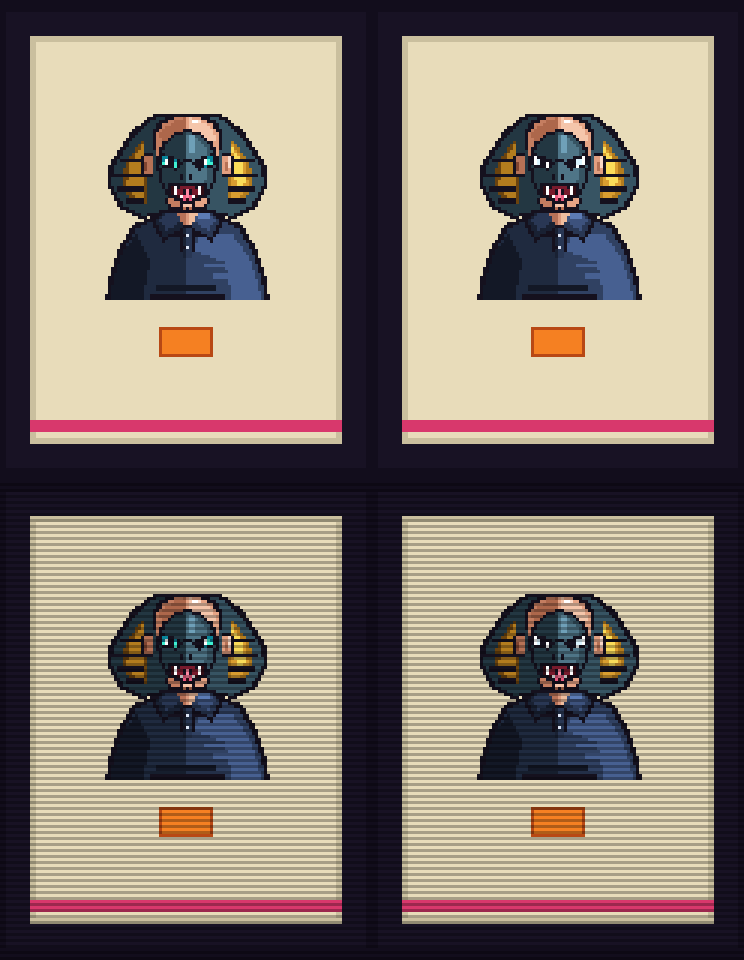
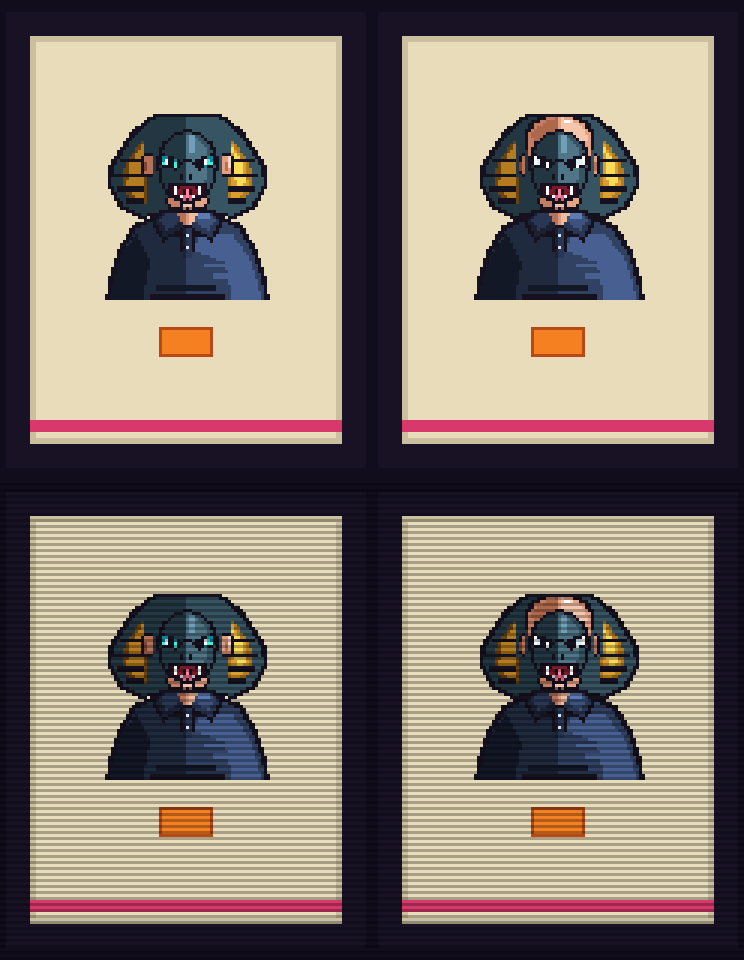
fix(portrait): perfect JC King Cobra portrait with backdrop hood, white predator eyes, and tucked ears
Overhaul JC's menu selection portrait (`CharacterArt.portrait` / `paintJc` in `js/entities/character_art.js`) to match the preferred reference design:

- Tall King Cobra Hood Mantle Rendered in Backdrop:
  - Reorder the rendering pipeline so the dorsal hood mantle (y = -17.5, x = +-21.5) is rendered behind the head as a backdrop.
  - Allows JC's athletic bald cranium (y = -18) to stand out proudly in the foreground with its warm skin gradient and specular highlight, avoiding the previous covered-head / full-cowl effect.

- Sharp White Predator Eyes:
  - Replace the cyan palette with intense, piercing stark white irises (#ffffff with subtle #dcf4ff glacier undertone) and black vertical slit pupils (#15111e).
  - Retain strictly mirrored mathematical bilateral symmetry across [-x, y] for maximum predator gaze intensity and CRT scanline contrast.

- Anatomical Human Ears Tucked Snugly:
  - Reduce lateral ear protrusion from x = +-12.5 down to x = +-10.8 (protrusion width 1.3 instead of 3.0).
  - Eliminate protruding ear silhouette while preserving human ear anatomy (shaded concha, flesh lobe, and specular helix highlight).

- Jaws, Mouth & Chin:
  - Retain gaping predator maw and 4 fangs directly framing JC's mouth position, with exposed human square chin and cleft below.

- Documentation & Assets:
  - Update `docs/character-direction.md` with the finalized JC portrait specifications.
[…]

diff --git a/js/entities/character_art.js b/js/entities/character_art.js
@@ -1201,33 +1201,8 @@
     poly(c, colLight, [[3, 8.2], [4.5, 8.2], [7.5, 10.5], [5.5, 13.5], [1.5, 11]]);
     rect(c, colHigh, 3.5, 8.5, 3, 1.8);
 
-    // 4. Compact Bald Cranium Dome (Top at y = -18, perfectly proportioned)
-    const topY = -18;
-    poly(c, ink, [
-      [-9.5, -8], [-9.5, -13], [-7.5, topY + 2.5], [-4, topY + 0.5], [0, topY],
-      [4, topY + 0.5], [7.5, topY + 2.5], [9.5, -13], [9.5, -8]
-    ]);
-    poly(c, '#c47d60', [
-      [-8.5, -8], [-8.5, -12.5], [-6.5, topY + 3.2], [-3.2, topY + 1.2], [0, topY + 0.8], [0, -8]
-    ]);
-    poly(c, '#ad674b', [
-      [-8, -12], [-5.5, topY + 3.8], [-2.5, topY + 1.8], [0, topY + 1.5], [0, topY + 4.5], [-5.5, -9.5]
-    ]);
-    poly(c, '#e6a485', [
-      [0, topY + 0.8], [3.2, topY + 1.2], [6.5, topY + 3.2], [8.5, -12.5], [8.5, -8], [0, -8]
-    ]);
-    poly(c, '#f5c6ab', [
-      [0.5, topY + 1.5], [3, topY + 1.8], [5.8, topY + 3.8], [7.5, -12], [7, -9], [3, -11], [0.5, -12]
-    ]);
-    rect(c, '#ffdfcc', 1.2, topY + 2, 2.8, 1);
-    rect(c, '#ffffff', 1.8, topY + 2.2, 1.2, 0.6);
-
-    // Forehead skin down to mask brow
-    poly(c, '#c47d60', [[-8.5, -8], [0, -8], [0, -6], [-8.5, -6]]);
-    poly(c, '#e6a485', [[0, -8], [8.5, -8], [8.5, -6], [0, -6]]);
-    rect(c, '#f5c6ab', 1, -7.5, 4, 1.2);
-
-    // 5. Tall King Cobra Diamond Hood Mantle (Towers high to y = -17.5, flaring wide to x = +-21.5)
+    // 4. Tall King Cobra Diamond Hood Mantle BACKDROP (Towers high to y = -17.5, flaring wide to x = +-21.5)
+    // Drawn BEFORE the head so JC's bald head and ears are proudly visible in foreground!
     poly(c, ink, [
       [-9, -17.5], [-15, -13], [-21, -4], [-21.5, 1.5], [-18, 7.5], [-12.5, 10.5], [-7, 9],
       [7, 9], [12.5, 10.5], [18, 7.5], [21.5, 1.5], [21, -4], [15, -13], [9, -17.5]
@@ -1240,7 +1215,7 @@
       [0, -16.5], [0, 8.2], [7, 8.2], [11.8, 9.5], [17, 7], [20.2, 1.5], [19.8, -3.5], [14, -12], [8.5, -16.5]
     ]);
 
-    // Tall Golden-Ochre Flaps with 4 Venom Ribs
+    // Tall Golden-Ochre Warning Flaps with 4 Venom Ribs
     poly(c, P.ochreDark, [
       [-11.5, -11], [-16.5, -5], [-17.5, 1.5], [-14.5, 6.5], [-11, 6.5]
     ]);
@@ -1266,15 +1241,41 @@
     rect(c, ink, 11, 1.5, 7.5, 1.4);
     rect(c, ink, 11, 4.8, 5.0, 1.4);
 
-    // 6. Anatomical Human Ears nestled cleanly at temple margin (y in [-7.5, -0.5])
-    poly(c, ink, [[-9.5, -7.5], [-12.5, -6.5], [-12.5, -1.5], [-9.5, -0.5]]);
-    poly(c, '#b67256', [[-9.5, -6.8], [-11.8, -6], [-11.8, -2.2], [-9.5, -1.2]]);
-    rect(c, '#7f4430', -11.2, -5, 1, 2.5);
+    // 5. Compact Athletic Bald Cranium Dome (Top at y = -18, perfectly proportioned)
+    const topY = -18;
+    poly(c, ink, [
+      [-9.5, -8], [-9.5, -13], [-7.5, topY + 2.5], [-4, topY + 0.5], [0, topY],
+      [4, topY + 0.5], [7.5, topY + 2.5], [9.5, -13], [9.5, -8]
+    ]);
+    poly(c, '#c47d60', [
+      [-8.5, -8], [-8.5, -12.5], [-6.5, topY + 3.2], [-3.2, topY + 1.2], [0, topY + 0.8], [0, -8]
+    ]);
+    poly(c, '#ad674b', [
+      [-8, -12], [-5.5, topY + 3.8], [-2.5, topY + 1.8], [0, topY + 1.5], [0, topY + 4.5], [-5.5, -9.5]
+    ]);
+    poly(c, '#e6a485', [
+      [0, topY + 0.8], [3.2, topY + 1.2], [6.5, topY + 3.2], [8.5, -12.5], [8.5, -8], [0, -8]
+    ]);
+    poly(c, '#f5c6ab', [
+      [0.5, topY + 1.5], [3, topY + 1.8], [5.8, topY + 3.8], [7.5, -12], [7, -9], [3, -11], [0.5, -12]
+    ]);
+    rect(c, '#ffdfcc', 1.2, topY + 2, 2.8, 1);
+    rect(c, '#ffffff', 1.8, topY + 2.2, 1.2, 0.6);
 
-    poly(c, ink, [[9.5, -7.5], [12.5, -6.5], [12.5, -1.5], [9.5, -0.5]]);
-    poly(c, '#e39f80', [[9.5, -6.8], [11.8, -6], [11.8, -2.2], [9.5, -1.2]]);
-    rect(c, '#b67256', 10.2, -5, 1, 2.5);
-    rect(c, '#f9d8c6', 11.2, -6.2, 0.8, 3);
+    // Forehead skin down to mask brow
+    poly(c, '#c47d60', [[-8.5, -8], [0, -8], [0, -6], [-8.5, -6]]);
+    poly(c, '#e6a485', [[0, -8], [8.5, -8], [8.5, -6], [0, -6]]);
+    rect(c, '#f5c6ab', 1, -7.5, 4, 1.2);
+
+    // 6. Anatomical Human Ears nestled snugly against skull (y in [-7.0, -1.0], x = +-10.8)
+    poly(c, ink, [[-9.5, -7.0], [-10.8, -6.0], [-10.8, -2.0], [-9.5, -1.0]]);
+    poly(c, '#b67256', [[-9.5, -6.4], [-10.3, -5.6], [-10.3, -2.4], [-9.5, -1.4]]);
+    rect(c, '#7f4430', -10.1, -4.5, 0.6, 1.8);
+
+    poly(c, ink, [[9.5, -7.0], [10.8, -6.0], [10.8, -2.0], [9.5, -1.0]]);
+    poly(c, '#e39f80', [[9.5, -6.4], [10.3, -5.6], [10.3, -2.4], [9.5, -1.4]]);
+    rect(c, '#b67256', 9.5, -4.5, 0.6, 1.8);
+    rect(c, '#f9d8c6', 10.0, -5.5, 0.6, 2.0);
 
     // 7. Firm Square Human Chin below the jaws (y in [4.5, 8.0])
     const chinY = 8.0;
@@ -1316,20 +1317,18 @@
     rect(c, ink, -1.8, -1.6, 1.3, 1.3);
     rect(c, ink, 0.5, -1.6, 1.3, 1.3);
 
-    // 10. Perfectly Symmetrical Electric Synthwave Cyan Eyes (Scanline Resistant)
+    // 10. Perfectly Symmetrical Predator Eyes (Matches top right of docs/compare_jc.png & User Image 2)
     [-1, 1].forEach(sign => {
       if (sign === -1) {
         poly(c, ink, [[-7.2, -7.0], [-2.0, -5.4], [-2.6, -2.4], [-7.8, -4.0]]);
-        poly(c, '#098499', [[-6.6, -6.4], [-2.4, -5.0], [-3.0, -2.8], [-7.0, -4.2]]);
-        poly(c, '#3ff0d2', [[-6.2, -6.0], [-2.7, -4.6], [-3.3, -3.2], [-6.5, -4.2]]);
-        rect(c, '#ffffff', -5.8, -5.4, 1.6, 1.5);
-        rect(c, ink, -4.6, -5.8, 1.6, 2.8);
+        poly(c, '#ffffff', [[-6.6, -6.2], [-2.4, -4.8], [-3.0, -2.8], [-7.0, -4.2]]);
+        rect(c, ink, -4.8, -5.8, 1.6, 2.8);
+        rect(c, '#dcf4ff', -6.0, -5.4, 1.2, 1.2);
       } else {
         poly(c, ink, [[2.0, -5.4], [7.2, -7.0], [7.8, -4.0], [2.6, -2.4]]);
-        poly(c, '#098499', [[2.4, -5.0], [6.6, -6.4], [7.0, -4.2], [3.0, -2.8]]);
-        poly(c, '#3ff0d2', [[2.7, -4.6], [6.2, -6.0], [6.5, -4.2], [3.3, -3.2]]);
-        rect(c, '#ffffff', 4.2, -5.4, 1.6, 1.5);
-        rect(c, ink, 3.0, -5.8, 1.6, 2.8);
+        poly(c, '#ffffff', [[2.4, -4.8], [6.6, -6.2], [7.0, -4.2], [3.0, -2.8]]);
+        rect(c, ink, 3.2, -5.8, 1.6, 2.8);
+        rect(c, '#dcf4ff', 4.8, -5.4, 1.2, 1.2);
       }
     });
 

diff --git a/docs/character-direction.md b/docs/character-direction.md
@@ -33,7 +33,7 @@ Troisième passe (Refonte Pixel Art Hotline Miami) :
 - **Arnaud (Ours)** : Refonte intégrale du portrait du menu d'accueil (`CharacterArt.portrait`). Masque de grizzly brun prédateur sculpté (oreilles arrondies cuppées avec liseré de fourrure et cavité sombre, front facetté en clair-obscur, arcades sourcilières froncées agressives, touffes de poils évasées sur les joues et museau fauve chaud avec truffe sombre). Lunettes rectangulaires noires en acétate traversant le museau avec branches courant vers les oreilles humaines et reflet spéculaire néon cyan Hotline Miami sur le verre droit. Intégration fidèle des traits réels d'Arnaud (chevelure dense poivre et sel brossée vers l'arrière avec crête argentée, oreilles humaines anatomiques visibles, barbe poivre et sel soignée parfaitement connectée à la moustache sans démarcation de peau, lèvre inférieure réaliste avec mouche et menton givré blanc-argent). Chemise blanche impeccable de manager décontracté (carrure large build 1.25, col ouvert en V avec revers, patte de boutonnage à boutons nacrés, et poche poitrine équipée d'un stylo bille bleu).
 - **Jade (Cygne)** : Refonte intégrale du portrait du menu d'accueil (`CharacterArt.portrait`). Masque de cygne tuberculé (mute swan) gracieux et acéré en plumage ivoire facetté en clair-obscur, crête stylisée, masque oculaire noir velours avec caroncule frontale sombre, bec ambré biseauté et regard perçant néon cyan Hotline Miami. Intégration fidèle des traits réels de Jade (longue chevelure brune soyeuse et lisse encadrant les joues et descendant élégamment le long des épaules dans l'esprit du design d'Anne, visage doux aux contours arrondis et pommettes délicatement rosées, bouche féminine raffinée avec lèvre glossée rose et boucle d'oreille pendante en goutte de perle). Robe émeraude cache-cœur fluide (carrure féminine build 1.08, encolure dégagée en V mettant en valeur le cou et le décolleté, drapé croisé avec ombrages et reflets en tissu crêpe texturé de plumetis) ornée d'une chaîne délicate en platine soutenant un médaillon sculpté en forme de cœur.
 - **PAP (Grand-duc)** : Refonte intégrale du portrait du menu d'accueil (`CharacterArt.portrait`). Masque de grand-duc d'Europe (*Bubo bubo*) sculptural et imposant en plumes brun sombre et fauve (aigrettes dressées vers le haut avec pointes d'ébène, disques faciaux concentriques en dégradés d'ocre et de terre de Sienne, bec de rapace crochu biseauté avec narines foncées). Yeux perçants d'une symétrie mathématique absolue calée sur la grille entière : fard sombre, iris grand-duc chaleureux en dégradé ambre/or pur (`#b34700` et `#ffd034`), pupilles noires 2×3 parfaitement centrées et éclat spéculaire blanc pur directionnel, éliminant tout strabisme pour un regard droit et intense de prédateur nocturne. Intégration fidèle des traits réels de PAP en tant que « doyen de VISEO » (silhouette robuste et enrobée build 1.28, crâne dégarni avec doux voile de cheveux fins blanc-argenté laissant transparaître le front, tempes courtes et soignées découvrant les oreilles humaines anatomiques, joues charnues matures avec rides d'expression du front, double menton rasé de près sans fausse barbe, et sourire en coin complice et sage illustrant sa réplique *« J’en ai vu d’autres »*). Tenue emblématique de doyen décontracté : polo greige en piqué de coton chiné mastic, col beige contrasté élégant, patte de boutonnage verticale avec boutons nacrés (sans cravate ni chemise stricte).
-- **JC (Cobra)** : Refonte intégrale du portrait du menu d'accueil (`CharacterArt.portrait`). Masque de combat King Cobra directement inspiré de l'image de référence pixel art avec manteau dorsal et collerette évasée de grande hauteur ($y = -17,5$ à $y = 8,5$, largeur $x = \pm 21,5$) aux flancs ocre-or et 4 stries de venin sombres, crâne chauve compact et viril à hauteur optimisée ($y = -18$) avec dégradé de peau chaleureux et reflet lustré blanc, oreilles humaines anatomiques parfaitement dégagées sur les tempes. Masque frontal sculptural avec crête dorsale effilée montant sur le front ($y = -12,5$), arcades sourcilières acérées et yeux de prédateur néon cyan synthwave d'une symétrie mathématique absolue avec pupilles noires verticales de 1,6 px résistantes aux scanlines CRT, gueule ouverte rouge carmin et fangs acérés blancs directement alignés sur la bouche humaine, langue rose bifide dardant vers l'avant et menton carré résolu rasé de près. Tenue décontractée et nette : polo bleu marine classique en maille piquée avec col contrasté, patte de boutonnage verticale et boutons nacrés.
+- **JC (Cobra)** : Refonte intégrale du portrait du menu d'accueil (`CharacterArt.portrait`). Masque de combat King Cobra directement inspiré de la variante validée (Image 2) avec manteau dorsal et collerette évasée de grande hauteur ($y = -17,5$ à $y = 8,5$, largeur $x = \pm 21,5$) disposés en arrière-plan avec flancs ocre-or et 4 stries de venin sombres, laissant ressortir fièrement au premier plan le crâne chauve compact et athlétique de JC ($y = -18$) avec dégradé de peau hâlé chaleureux et reflet lustré blanc, et oreilles humaines anatomiques bien collées au crâne ($x = \pm 10,8$, évitant tout décrochement excessif). Masque frontal sculptural avec crête dorsale effilée montant sur le front ($y = -12,5$), arcades sourcilières acérées et yeux de prédateur blancs éclatants (`#ffffff`, `#dcf4ff`) à pupilles noires en fente verticale (`#15111e`) d'une symétrie mathématique absolue garantissant une lisibilité perçante à travers les scanlines CRT. Gueule ouverte rouge carmin et 4 fangs acérés blancs directement alignés sur l'emplacement de la bouche humaine, langue rose bifide dardant vers l'avant et menton carré résolu rasé de près. Tenue décontractée et nette : polo bleu marine classique en maille piquée avec col contrasté, patte de boutonnage verticale et boutons nacrés.
 
 Quatrième passe (Refonte Intégrale des Sprites In-Game en Vue du Dessus) :
 - **Harmonisation globale & Perspective plongeante** : Refonte complète des têtes (`CharacterArt.head`) et des torses (`CharacterArt.torsoDetails` et `Player._drawTorso`) pour les 7 personnages jouables, garantissant une stricte fidélité avec les portraits pixel art du menu d'accueil tout en respectant une authentique perspective plongeante (top-down view) : raccourcissement sagittal des traits faciaux, placement latéral des yeux de prédateurs sans effet de « regard vers le ciel », et silhouettes de vêtements sur mesure.
